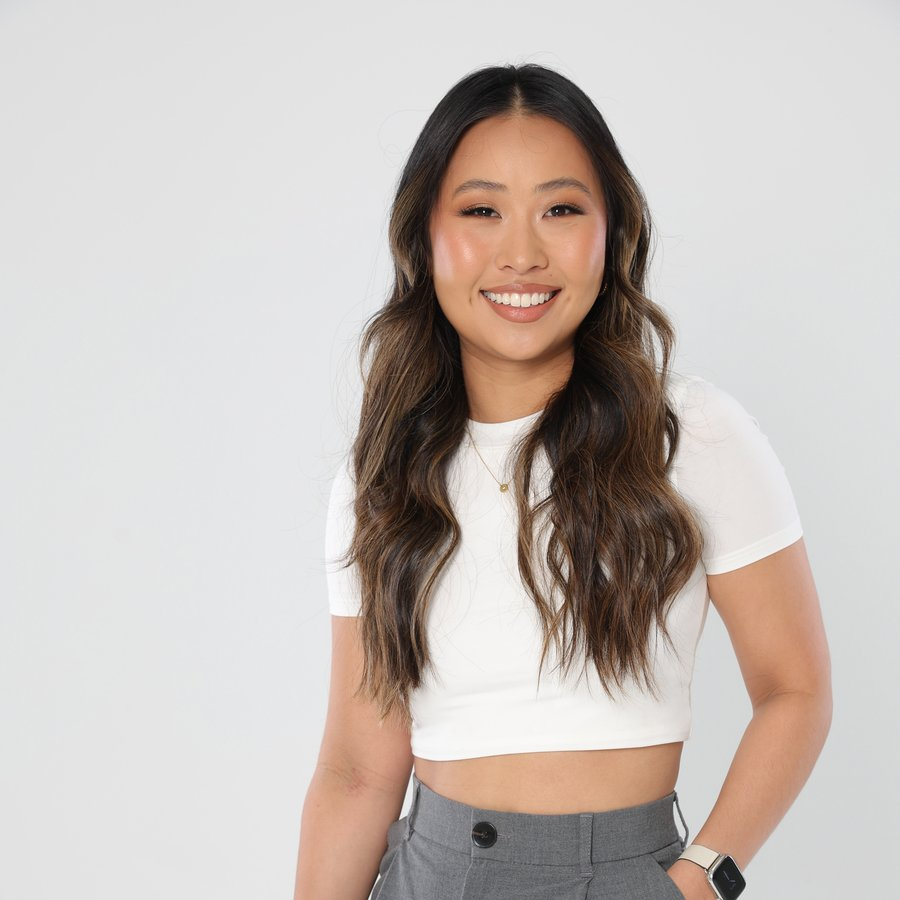
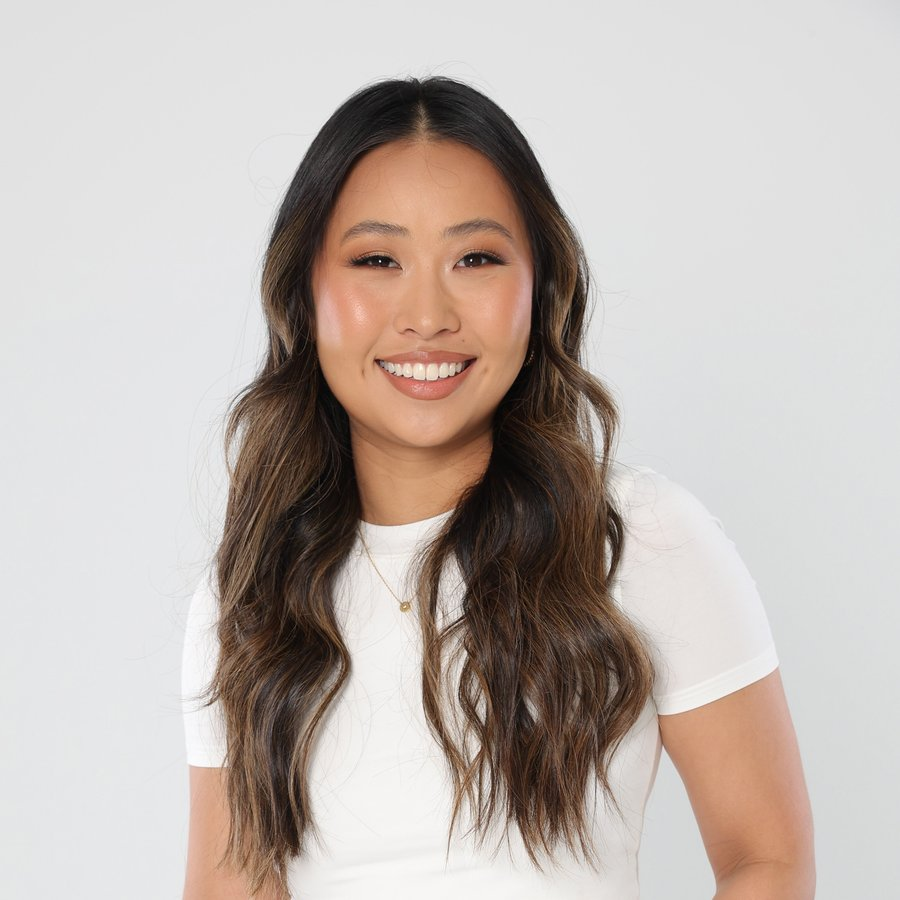
Portfolio: center DrinkWise and Etoile crops
Re-crop from originals: new b-drinkwise-4 (old pre-crop sat left of
centre), re-centered b-etoile-4 with ?v=2 to bust the immutable cache.

diff --git a/portfolio.html b/portfolio.html
@@ -69,7 +69,7 @@
         </article>
         <article class="lx-plate">
           <div class="lx-plate-img lx-plate-img-small">
-            <img src="assets/img/b-drinkwise-3.jpg" srcset="assets/img/b-drinkwise-3.webp" alt="Executive in a bright pink blazer seated at a table" loading="lazy">
+            <img src="assets/img/b-drinkwise-4.jpg" srcset="assets/img/b-drinkwise-4.webp" alt="Executive in a bright pink blazer seated at a table" loading="lazy">
           </div>
           <div class="lx-plate-meta">
             <h3 class="lx-plate-name">DrinkWise</h3>
@@ -77,7 +77,7 @@
         </article>
         <article class="lx-plate">
           <div class="lx-plate-img lx-plate-img-small">
-            <img src="assets/img/b-etoile-4.jpg" srcset="assets/img/b-etoile-4.webp" alt="Studio portrait in a white tee and grey trousers" loading="lazy">
+            <img src="assets/img/b-etoile-4.jpg?v=2" srcset="assets/img/b-etoile-4.webp?v=2" alt="Studio portrait in a white tee and grey trousers" loading="lazy">
           </div>
           <div class="lx-plate-meta">
             <h3 class="lx-plate-name">Etoile Collective</h3>
